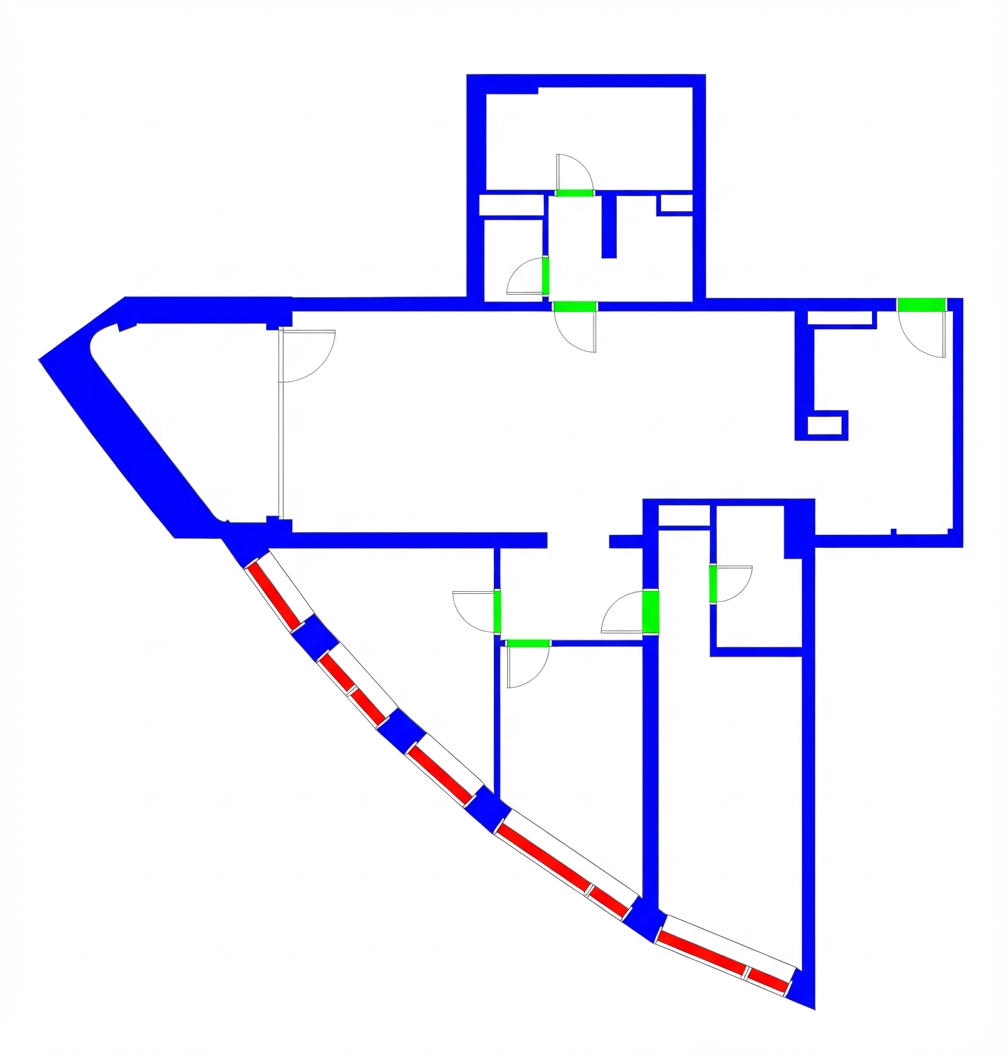
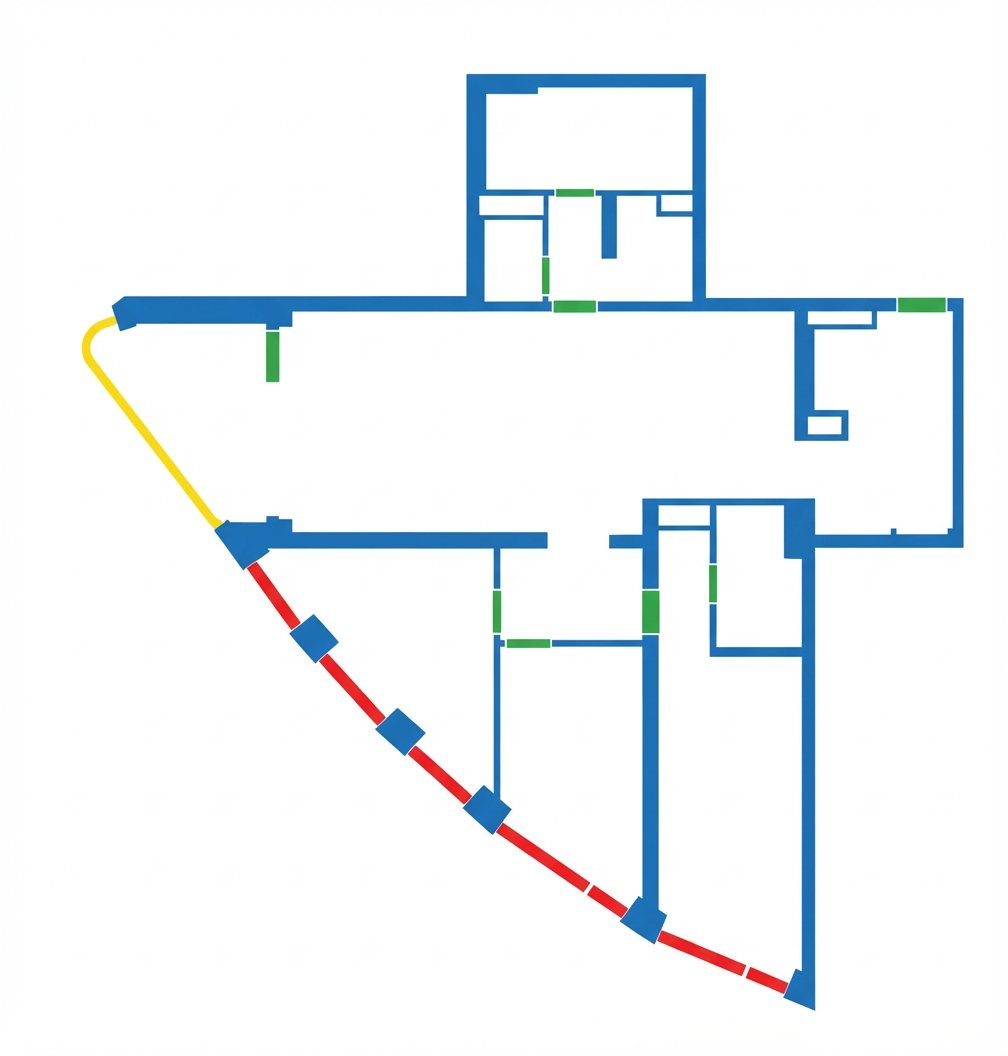
Detecting balcony fences

Changed region(s): [[0.0308, 0.0625, 0.9534, 0.9688]]

diff --git a/src/ai.py b/src/ai.py
@@ -6,38 +6,31 @@ from time import strftime
 from google import genai
 from google.oauth2 import service_account
 
-prompt = """Clean this architectural floorplan for 1:1 conversion.
-
-REFERENCE IMAGE (first image): Shows EXACT symbols for doors and windows. Detect these precisely:
-- Door: Wall opening + quarter-circle arc
-- Window: 3 parallel lines in wall
-
-EXAMPLE OUTPUT (second image): Shows the REQUIRED style of the output image
-- The OUTPUT style must match EXAMPLE OUTPUT (second image) image.
-- The EXAMPLE should only be used for determining the style, the layout of the output floorplan MUST be according to the INPUT IMAGE
-
-INPUT IMAGE (third image):
-- This is the floorplan, based on which the layout of the OUTPUT image should be determined
-- The layout (positions and shapes of walls, doors and windows) of the output floorplan MUST be according to the INPUT IMAGE
-
-CRITICAL - PRESERVE PROPORTIONS:
-- Keep exact aspect ratio and dimensions of floorplan
-- Maintain precise room sizes and relationships
-
-REMOVE:
-- Balconies (replace with solid wall - completely closed, no openings)
-- Furniture, appliances, decorations
-- Text, labels, dimensions, annotations
-- Textures, patterns, symbols
-
-Transform (using reference symbols):
-- Walls: Solid blue color
-- Doors: Solid green color rectangles
-- Windows: Solid red color rectangles
-
-The OUTPUT style must match EXAMPLE OUTPUT (second image) image.
-
-OUTPUT: Clean drawing on white background with walls filled solid blue, doors with solid green, windows with solid red, exact proportions preserved."""
+prompt = """You are an expert in TRANSFORMING IMAGES, YOU TRANSFORM FIRST IMAGE INTO A CLEAN FLOORPLAN DRAWING.
+ 
+⚠ CRITICAL: The FIRST IMAGE (immediately after this text) is YOUR INPUT. Transform ONLY this image.
+The other image is just reference examples - DO NOT copy or return them.
+ 
+YOUR TASK:
+Look at the FIRST IMAGE - this is the floorplan you must transform
+Trace its walls, doors, balcony railing, and windows
+Apply these colors: walls=BLUE, balcony railing=YELLOW, doors=GREEN only one solid rectangle for one door (represents closed doors), windows=RED one window = one solid rectangle
+Keep the EXACT same room layout, proportions, and structure as the FIRST IMAGE
+ 
+REMOVE from output:
+All furniture, appliances, text, labels, dimensions, and annotations
+whole door arcs that show door swings
+ 
+OUTPUT REQUIREMENTS:
+White background
+Walls: solid blue fill (thick line)
+Balcony railings: solid yellow rectangle (thick line)
+Doors: solid green rectangle (thick line)
+Windows: solid red rectangle (thick line)
+ 
+The second image shows the color style and shape to use on doors (no arcs, just one thick line connected to walls), walls, balcony railings, and windows (reference only - DO NOT return this image).
+ 
+VERIFY BEFORE GENERATING: Your output MUST match the room layout of the FIRST IMAGE, not any reference image, and must be closed from outside, THERE CANNOT BE ANY GAPS. And door must be solid rectangle with both ends connected to walls, as u can see it on the reference image - this is very IMPORTANT, often time you fail to do this. Make it exactly like i told you, this is VERY IMPORTANT for me, it can save my life."""
 
 
 def main(filename: str):
@@ -65,9 +58,8 @@ def main(filename: str):
                 role="user",
                 parts=[
                     genai.types.Part(text=prompt),
-                    genai.types.Part.from_bytes(mime_type="image/png", data=Path("reference.png").read_bytes()),
-                    genai.types.Part.from_bytes(mime_type="image/png", data=Path("example.png").read_bytes()),
                     input_image,
+                    genai.types.Part.from_bytes(mime_type="image/png", data=Path("example.png").read_bytes()),
                 ],
             ),
             config=genai.types.GenerateContentConfig(

diff --git a/src/convert_to_svg.py b/src/convert_to_svg.py
@@ -1,6 +1,6 @@
+import subprocess
 from io import BytesIO
 from pathlib import Path
-from subprocess import run
 from sys import argv
 from typing import IO
 
@@ -22,23 +22,20 @@ def convert_to_svg(name: str, input: Path | IO[bytes] | BytesIO):
     output = OUTPUT_FOLDER / name
     threshold = 200
 
-    for component, colors in [
-        ("windows", [np.array([255, 0, 0])]),
-        ("doors", [np.array([0, 255, 0])]),
-        ("walls", [np.array([0, 0, 255])]),
+    processes: list[subprocess.Popen] = []
+    intermediates: list[Path] = []
+
+    for component, color in [
+        ("windows", np.array([255, 0, 0])),
+        ("doors", np.array([0, 255, 0])),
+        ("walls", np.array([0, 0, 255])),
+        ("balcony", np.array([255, 255, 0])),
     ]:
-        # Get pixels of the required colors
-        combined_matches = np.zeros(pixels.shape[:2], dtype=bool)
-
-        for color in colors:
-            # Calculate distance for this specific color
-            distances = np.linalg.norm(pixels - color, axis=2)
-
-            # Combine with previous matches using logical OR (at least one match)
-            combined_matches = np.logical_or(combined_matches, distances < threshold)
+        # Get pixels matching the required colors
+        distances = np.linalg.norm(pixels - color, axis=2)
 
         # Convert boolean mask to 0/255 uint8 format
-        matches = np.where(combined_matches, 0, 255).astype(np.uint8)
+        matches = np.where(distances < threshold, 0, 255).astype(np.uint8)
 
         # Save the intermediate image
         grayscale = np.repeat(matches[:, :, np.newaxis], 3, axis=2)
@@ -47,10 +44,18 @@ def convert_to_svg(name: str, input: Path | IO[bytes] | BytesIO):
         output_image.save(intermediate)
 
         # Convert to SVG
-        run(["vendor/potrace/potrace", "-b", "svg", intermediate, "-o", intermediate.with_suffix(".svg")], check=True)
+        process = subprocess.Popen(["vendor/potrace/potrace", "-b", "svg", intermediate, "-o", intermediate.with_suffix(".svg")])
+        processes.append(process)
+        intermediates.append(intermediate)
 
-        # Delete the intermediate file
-        if DELETE_BITMAPS:
+    # Wait for child processes to exit
+    for process in processes:
+        code = process.wait()
+        assert code == 0
+
+    # Delete the intermediate file
+    if DELETE_BITMAPS:
+        for intermediate in intermediates:
             intermediate.unlink()
 
 

diff --git a/src/convert_to_gltf.py b/src/convert_to_gltf.py
@@ -169,6 +169,11 @@ def build_shape(name: str, merged: "list[Polygon]", builder: MeshBuilder):
         builder.create_mesh("Window_", None, None)
         return
 
+    if name == "balcony":
+        builder.extrude_shape(final_indices, final_vertices, height=height / 3)
+        builder.create_mesh("Fence_", None, None)
+        return
+
     if name == "doors":
         name = "Door"
         builder.extrude_shape(final_indices, final_vertices, height=height * 10 / 13)
@@ -228,13 +233,13 @@ def extend_doors_and_windows_to_touch_walls(shapes: list[Shape]):
     # Doors and windows are expected to be rectangular in shape, so reduce them to their oriented
     # envelope (a rectangle). This will simplify their model, but more importantly, we can easily
     # get their axes. This will allow us to extend them to touch their surrounding walls. Some
-    # windows/walls should be touching other windows/walls.
+    # windows/doors should be touching other windows/doors.
 
     rects: list[Rectangle] = []
     walls: list[Shape] = []
 
     for shape in shapes:
-        if shape.kind == "walls":
+        if shape.kind != "windows" and shape.kind != "doors":
             walls.append(shape)
             continue
 
@@ -384,11 +389,20 @@ def convert_to_gltf(name: str):
 
     all_shapes: list[Shape] = []
 
-    for component in ["windows", "walls", "doors"]:
+    for component in ["windows", "walls", "doors", "balcony"]:
         filename = OUTPUT_FOLDER / f"{name}.{component}.svg"
 
-        for shape in load_shapes(filename):
-            all_shapes.append(Shape(component, list(shape)))
+        for shape_polygons in load_shapes(filename):
+            # Create a shape from the polygons parsed from the SVG path. The path may be degenerate
+            # (a line) due to antialiasing pixels being detected as the correct color, ignore all
+            # lines by calculating the polygon thickness (expected thickness for good polygons is in
+            # the range 30..70, but all degenerate polygons are 1..4).
+            shape = Shape(component, list(polygon for polygon in shape_polygons if polygon.area / polygon.exterior.length > 5))
+
+            if len(shape.polygons) == 0:
+                continue
+
+            all_shapes.append(shape)
 
         if DELETE_SVG:
             filename.unlink()
